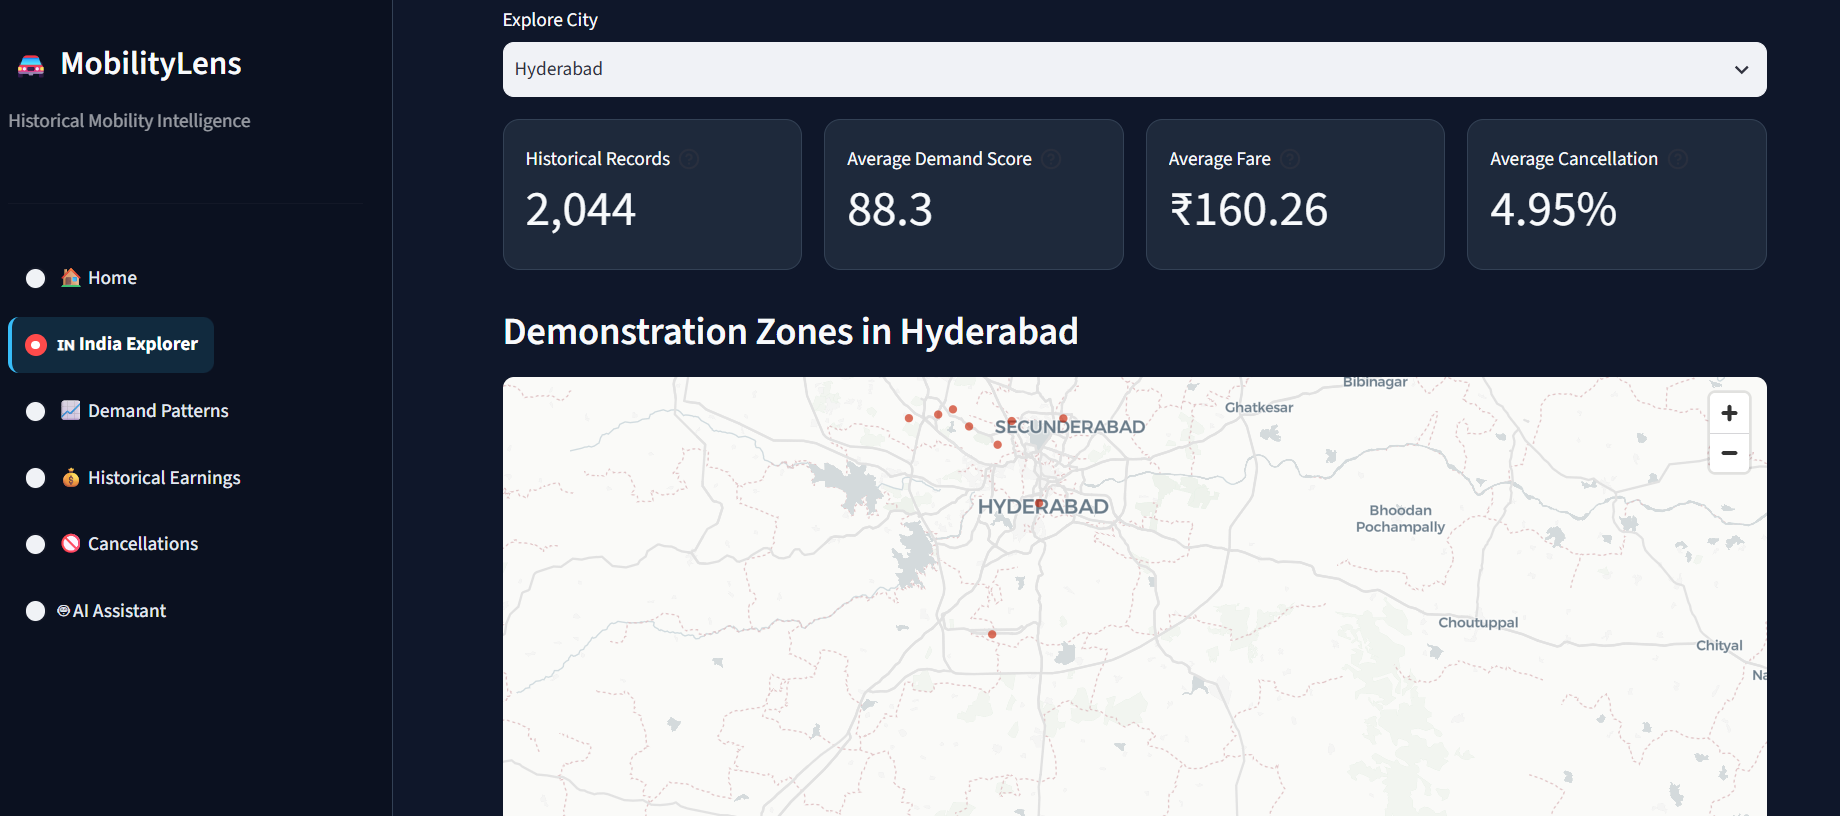
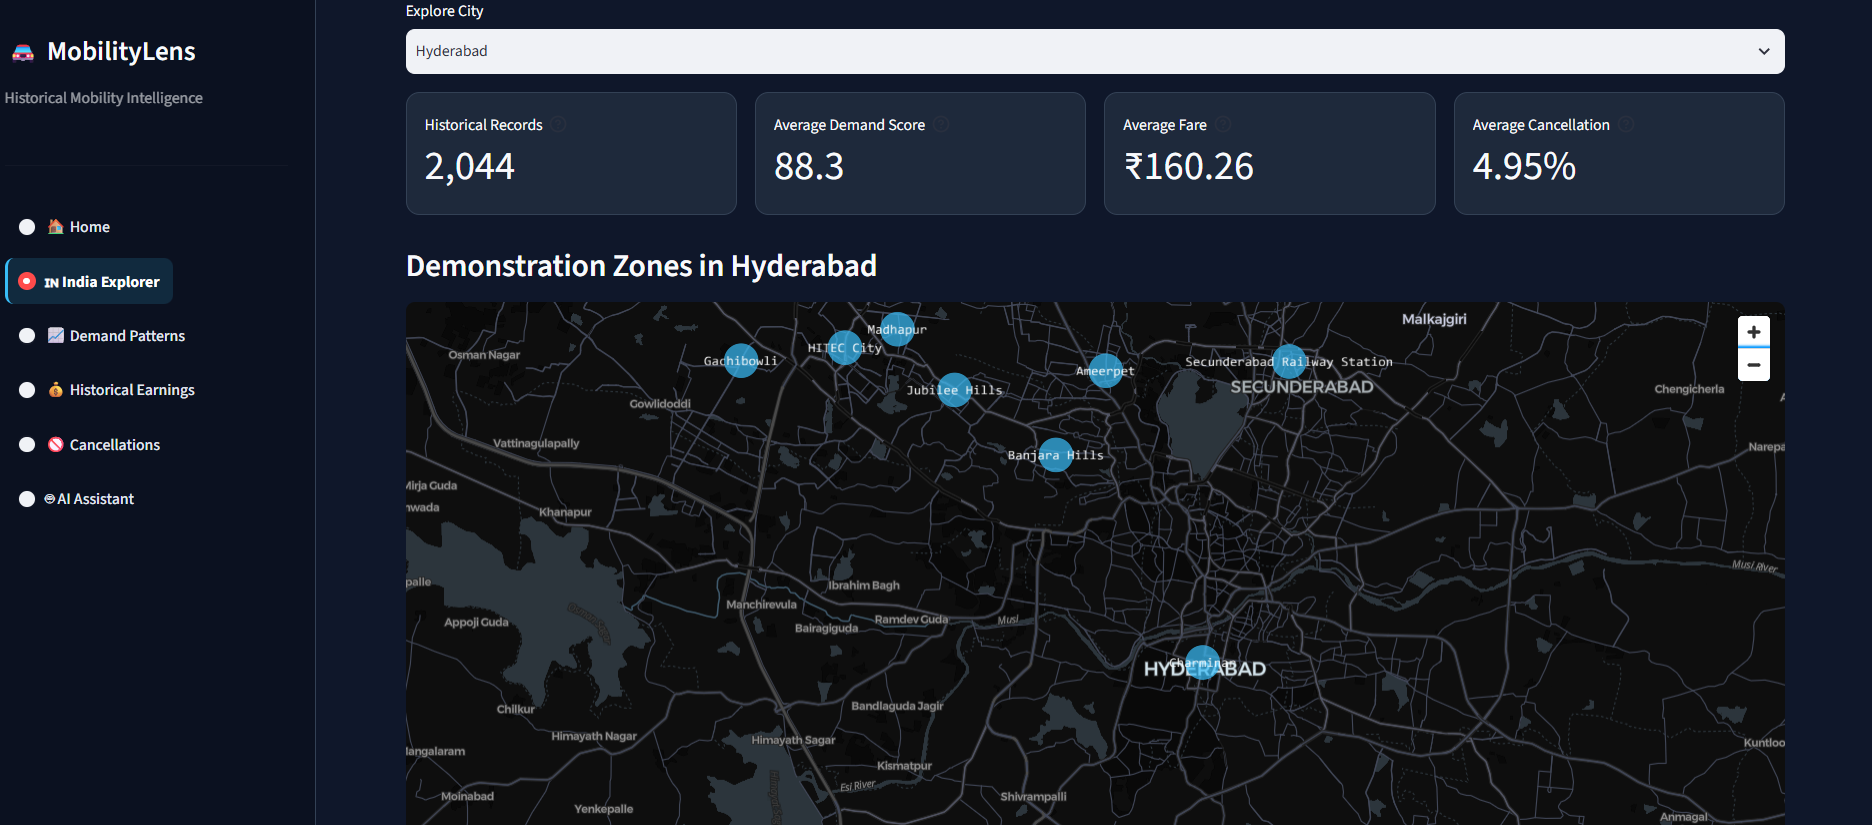
Improve map labels and earnings display

diff --git a/app.py b/app.py
@@ -3,6 +3,7 @@ import json
 import time
 
 import altair as alt
+import pydeck as pdk
 import numpy as np
 import pandas as pd
 import requests
@@ -3705,7 +3706,6 @@ elif selected_page == "India Explorer":
             "FairFare data or demonstration "
             "zones are unavailable."
         )
-
         st.stop()
 
     map_data = get_city_map_data()
@@ -3715,7 +3715,6 @@ elif selected_page == "India Explorer":
             "No supported FairFare cities "
             "are available."
         )
-
         st.stop()
 
     st.subheader(
@@ -3807,12 +3806,89 @@ elif selected_page == "India Explorer":
         ]
     ]
 
-    st.map(
-        zone_map,
-        latitude="Latitude",
-        longitude="Longitude",
-        zoom=9,
-        height=360,
+    lat_span = float(
+        zone_map["Latitude"].max()
+        - zone_map["Latitude"].min()
+    )
+
+    lon_span = float(
+        zone_map["Longitude"].max()
+        - zone_map["Longitude"].min()
+    )
+
+    span = max(
+        lat_span,
+        lon_span,
+    )
+
+    if span <= 0.02:
+        map_zoom = 13
+    elif span <= 0.05:
+        map_zoom = 12
+    elif span <= 0.10:
+        map_zoom = 11
+    elif span <= 0.20:
+        map_zoom = 10
+    else:
+        map_zoom = 9
+
+    zone_layer = pdk.Layer(
+        "ScatterplotLayer",
+        data=zone_map,
+        get_position="[Longitude, Latitude]",
+        get_radius=500,
+        get_fill_color=[
+            56,
+            189,
+            248,
+            180,
+        ],
+        pickable=True,
+    )
+
+    zone_text_layer = pdk.Layer(
+    "TextLayer",
+    data=zone_map,
+    get_position="[Longitude, Latitude]",
+    get_text="zone",
+    get_size=12,
+    get_color=[
+    255,
+    255,
+    255,
+    255,
+],
+    pickable=False,
+)
+
+    zone_view = pdk.ViewState(
+        latitude=float(
+            zone_map["Latitude"].mean()
+        ),
+        longitude=float(
+            zone_map["Longitude"].mean()
+        ),
+        zoom=map_zoom,
+    )
+
+    zone_deck = pdk.Deck(
+        layers=[
+            zone_layer,
+            zone_text_layer,
+        ],
+        initial_view_state=zone_view,
+        tooltip={
+            "html": "<b>{zone}</b><br/>{zone_type}",
+            "style": {
+                "backgroundColor": "#1e293b",
+                "color": "#f8fafc",
+            },
+        },
+    )
+
+    st.pydeck_chart(
+        zone_deck,
+        use_container_width=True,
     )
 
     st.dataframe(
@@ -3837,7 +3913,7 @@ elif selected_page == "India Explorer":
     st.caption(
         f"Zone assignment coverage: "
         f"{len(assigned):,} of "
-        f"{len(fairfare_filter(city=selected_city)):,} "
+        f"{len(fairfare_filter(city=selected_city)): ,} "
         f"city records were assigned within the "
         f"{ZONE_MAX_DISTANCE_KM:.0f} km threshold. "
         "City-level summaries use the complete FairFare city data."
@@ -4579,23 +4655,36 @@ elif selected_page == "Earnings":
         )
 
     else:
-        st.dataframe(
-            comparison.rename(
-                columns={
-                    "Zone": "Place",
-                    "Ride_Type": "Ride Type",
-                    "Average_Fare": "Avg Fare (₹)",
-                    "Average_Fare_Per_KM": (
-                        "Avg Fare / Km (₹)"
-                    ),
-                    "Average_Ride_Distance": (
-                        "Avg Distance (km)"
-                    ),
-                }
+        comparison_display = comparison.rename(
+        columns={
+            "Zone": "Place",
+            "Ride_Type": "Ride Type",
+            "Average_Fare": "Avg Fare (₹)",
+            "Average_Fare_Per_KM": (
+                "Avg Fare / Km (₹)"
             ),
-            use_container_width=True,
-            hide_index=True,
-        )
+            "Average_Ride_Distance": (
+                "Avg Distance (km)"
+            ),
+        }
+    ).copy()
+
+    st.dataframe(
+        comparison_display,
+        use_container_width=True,
+        hide_index=True,
+        column_config={
+            "Avg Fare (₹)": st.column_config.NumberColumn(
+                format="%.2f"
+            ),
+            "Avg Fare / Km (₹)": st.column_config.NumberColumn(
+                format="%.2f"
+            ),
+            "Avg Distance (km)": st.column_config.NumberColumn(
+                format="%.2f"
+            ),
+        },
+    )
 
 
 # ==============================================================================
